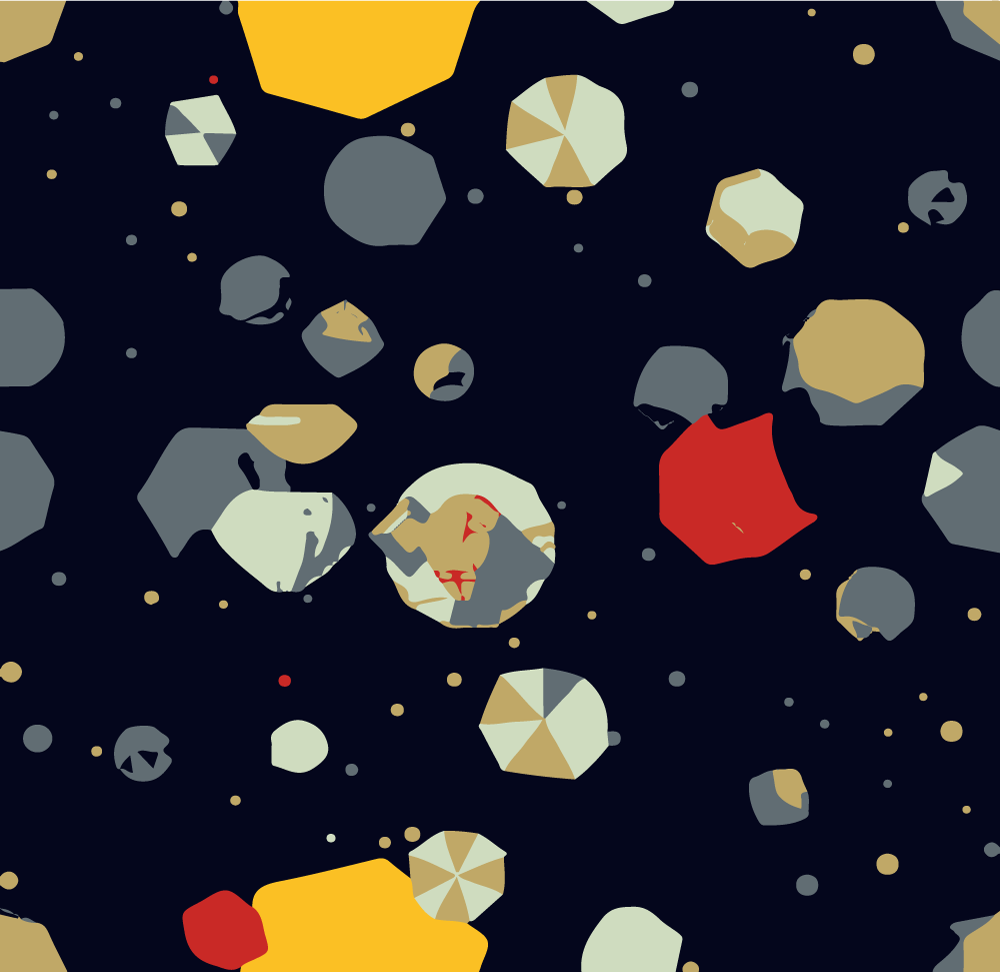
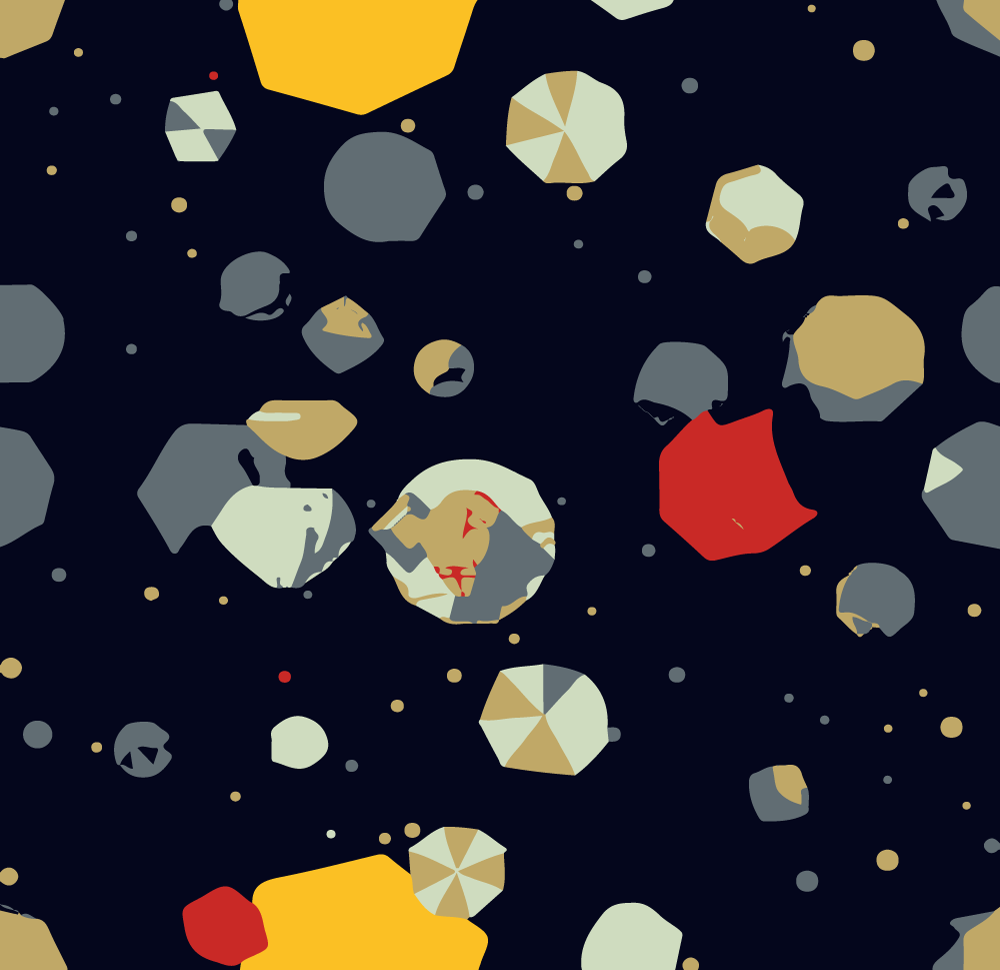
move audio player

diff --git a/src/client/containers/info-panel.js b/src/client/containers/info-panel.js
@@ -1,55 +1,66 @@
 import React from "react";
 import {connect} from 'react-redux';
 import {sendStartGame} from "../actions/action-creators";
+import mp3 from '../assets/Original_Tetris_theme.mp3'
 
 const InfoPanelComponent = ({error, animate, master, playerName, roomName, onClickButton, canStart}) =>
-  <div className={"column width_info_panel"}>
-    <div className={"row center"}>
-      <h1 className={"font_white font_retro"}>TETRIS</h1>
+  <div className={"column width_info_panel spaceBetween"}>
+    <div className={"row"}>
+      <div className={"column"}>
+        <div className={"row center"}>
+          <h1 className={"font_white font_retro"}>TETRIS</h1>
+        </div>
+        <div className={"font_white pad"}>
+          {"For play you need add to the url: #<roomName>[<yourPseudo>]"}<br/>
+          {"> Exemple: cepalle.github.io/red-tetris/#chateauHyrule[Zelda]"}<br/>
+          {"Refresh the page with the new url"}<br/><br/>
+          {"<keyRight>: move right"}<br/>
+          {"<keyLeft>: move left"}<br/>
+          {"<keyDown>: move down"}<br/>
+          {"<keyUp>: rotate right"}<br/>
+          {"<keySpace>: place the piece"}<br/>
+          {"<keyEnter>: start the game if your are master"}<br/>
+
+          {playerName && roomName && master &&
+          <div className={"pad"}>
+            <button className={"font_retro font_white font_button buttonPlay"} onClick={() => onClickButton()}>
+              Play!
+            </button>
+          </div>}
+
+
+          {playerName && roomName && !animate && master &&
+          <p className={"font_green"}>{"You are currently waiting for other players"}<br/></p>}
+
+          {playerName && roomName && !animate && !master &&
+          <p className={"font_green"}>{"You are currently waiting for master player"}<br/></p>}
+
+          {(!playerName || !roomName) &&
+          <p className={"font_red"}>{"You need to join a room and take a pseudo"}<br/>
+            {"(The room will be created if doesn't exist)"}<br/></p>}
+
+
+          {error.type === "PLAYER_ALREADY_IN_ROOM" &&
+          <p className={"font_red"}>{"A player as already your pseudo in this room"}<br/></p>}
+
+          {error.type && error.type === "ROOM_ALREADY_IN_GAME" &&
+          <p className={"font_red"}>{"Others players are still playing"}<br/></p>}
+
+          {error.type && error.type === "PLAYER_NOT_MASTER" &&
+          <p className={"font_red"}>{"You need to be master for start the game"}<br/></p>}
+
+          {error.type && error.type !== "PLAYER_ALREADY_IN_ROOM" &&
+          error.type !== "PLAYER_NOT_MASTER" &&
+          error.type !== "ROOM_ALREADY_IN_GAME" &&
+          <p className={"font_red"}>{error.type}<br/></p>}
+
+        </div>
+      </div>
     </div>
-    <div className={"font_white pad"}>
-      {"For play you need add to the url: #<roomName>[<yourPseudo>]"}<br/>
-      {"> Exemple: cepalle.github.io/red-tetris/#chateauHyrule[Zelda]"}<br/>
-      {"Refresh the page with the new url"}<br/><br/>
-      {"<keyRight>: move right"}<br/>
-      {"<keyLeft>: move left"}<br/>
-      {"<keyDown>: move down"}<br/>
-      {"<keyUp>: rotate right"}<br/>
-      {"<keySpace>: place the piece"}<br/>
-      {"<keyEnter>: start the game if your are master"}<br/>
-
-      {playerName && roomName && master &&
-      <div className={"pad"}>
-        <button className={"font_retro font_white font_button buttonPlay"} onClick={() => onClickButton()}>
-          Play!
-        </button>
-      </div>}
-
-      {playerName && roomName && !animate && master &&
-      <p className={"font_green"}>{"You are currently waiting for other players"}<br/></p>}
-
-      {playerName && roomName && !animate && !master &&
-      <p className={"font_green"}>{"You are currently waiting for master player"}<br/></p>}
-
-      {(!playerName || !roomName) &&
-      <p className={"font_red"}>{"You need to join a room and take a pseudo"}<br/>
-        {"(The room will be created if doesn't exist)"}<br/></p>}
-
-
-      {error.type === "PLAYER_ALREADY_IN_ROOM" &&
-      <p className={"font_red"}>{"A player as already your pseudo in this room"}<br/></p>}
-
-      {error.type && error.type === "ROOM_ALREADY_IN_GAME" &&
-      <p className={"font_red"}>{"Others players are still playing"}<br/></p>}
-
-      {error.type && error.type === "PLAYER_NOT_MASTER" &&
-      <p className={"font_red"}>{"You need to be master for start the game"}<br/></p>}
-
-      {error.type && error.type !== "PLAYER_ALREADY_IN_ROOM" &&
-      error.type !== "PLAYER_NOT_MASTER" &&
-      error.type !== "ROOM_ALREADY_IN_GAME" &&
-      <p className={"font_red"}>{error.type}<br/></p>}
-
+    <div className={"row"}>
+      <div className={"column"}>
+        <audio controls loop autoPlay src={mp3} className={"color0"}/>
+      </div>
     </div>
   </div>
 ;

diff --git a/src/client/index.css b/src/client/index.css
@@ -29,6 +29,10 @@
   align-self: flex-end;
 }
 
+.spaceBetween {
+  justify-content: space-between;
+}
+
 /* PIECE */
 
 .casePlayer {
@@ -178,16 +182,16 @@
 }
 
 @font-face {
-  font-family: 'saboFilled';
+  font-family: 'arcade';
   src: url('./assets/arcade.ttf');
 }
 
 body {
-  background-image: url("assets/Image collée le -  2018_03_26 01_28 PM-iloveimg-cropped (5).png");
+  background-image: url("assets/space.png");
 }
 
 .font_retro {
-  font-family:'saboFilled';
+  font-family:'arcade';
 }
 
 .font_info {
@@ -208,4 +212,3 @@ body {
 .font_green {
   color: green;
 }
-

diff --git a/src/client/util/socket-handler.js b/src/client/util/socket-handler.js
@@ -7,8 +7,8 @@ import {
   updatePlayers
 } from "../actions/action-creators"
 
-const socket = io.connect('http://localhost:4433');
-// const socket = io.connect('https://le-101.tk:4433');
+// const socket = io.connect('http://localhost:4433');
+const socket = io.connect('https://le-101.tk:4433');
 
 
 //----------------------------------------------------------------------------

diff --git a/src/client/components/app.js b/src/client/components/app.js
@@ -2,11 +2,9 @@ import React from "react";
 import {GridPlayer} from "../containers/grid-player"
 import {InfoPanel} from "../containers/info-panel";
 import {Opponents} from "../containers/opponents";
-import mp3 from '../assets/Original_Tetris_theme.mp3'
 
 const App = () =>
   <div className={"column"}>
-    <audio loop autoPlay src={mp3}/>
     <div className={"row center"}>
       <div className={"row color8 pad"}>
         <InfoPanel/>